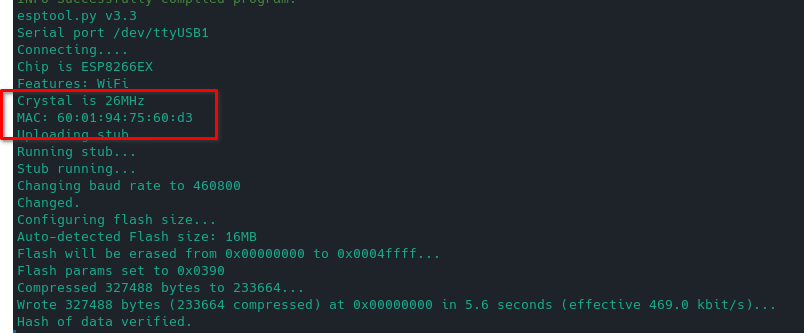
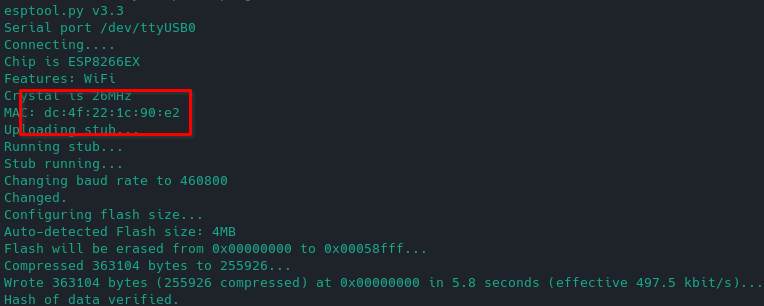
Tutorial: Finish tutorial1 and started Tutorials 2,3

Changed region(s): [[0.0, 0.0, 0.9935, 1.0]]

diff --git a/README.md b/README.md
@@ -32,9 +32,11 @@ pip install -r requirements.txt
 
 
 
-## Tutorial 1: Simple node test
+## Tutorial 1: Local node test
 
-### Load firmware on test nodes
+### Load firmware on HUB node
+
+This tutrial is focused on flash and test the HUB node device.
 
 Enter in the esphome project folder:
 
@@ -43,21 +45,45 @@ cd ${WORKSPACE}/esphome
 ```
 
 Connect the **first** device (d1 mini or nodemcu) to the usb (/dev/ttyUSB0) port 
-and flash the node01 configuration.
+and flash the **node01** configuration.
 
 ```shell
 python -m esphome run --device /dev/ttyUSB0  ../meshmeshhub/configs/node01.yaml 
 ```
 
-Connect the **second** device (d1 mini or nodemcu) to the usb (/dev/ttyUSB0) port 
-and flash the node01 configuration.
-
-```shell
-python -m esphome run --device /dev/ttyUSB0  ../meshmeshhub/configs/node02.yaml 
-```
-
-Keep note of device mac address provided by the esptool: The netwrok address will be equal to the last three bytes of the mac address.
+Keep note of device mac address provided by the esptool: The network address inside the network will be equal to the last three bytes of the device mac address.
 
 ![image-20220704234703529](images/mac_address.png)
+
+### Connect the python HUB software to the HUB node
+
+```shell
+cd ${WORKSPACE}/meshmeshhub
+venv/bin/python -m meshmesh.hub2 -p unicast  -sp /dev/ttyUSB0 -br 460800 -eg 
+```
+
+![Hub Start](images/hub_start.png)
+
+If you see something similar the above picture and the last three bytes of the mac address in the HUB software are  the same you see in after the esptool flash the step has been successful and the HUB software is correctly speaking with the HUB device.
+
+## Tutorial 2: Test the HUB device with the test software
+
+For this tutorial you must have a running HUB software (follow the Tutorial 1 in order to have a running HUB software).
+
+To be continued...
+
+## Tutorial 3: Flash and test a second node
+
+Enter in the esphome project folder:
+
+```shell
+cd ${WORKSPACE}/esphome
+```
+
+Connect the **second** device (d1 mini or nodemcu) to the usb port (let's suppose that his serial port is /dev/ttyUSB1)  and flash the **node02** configuration.
+
+```shell
+python -m esphome run --device /dev/ttyUSB1  ../meshmeshhub/configs/node02.yaml 
+```
 
 To be continued...
